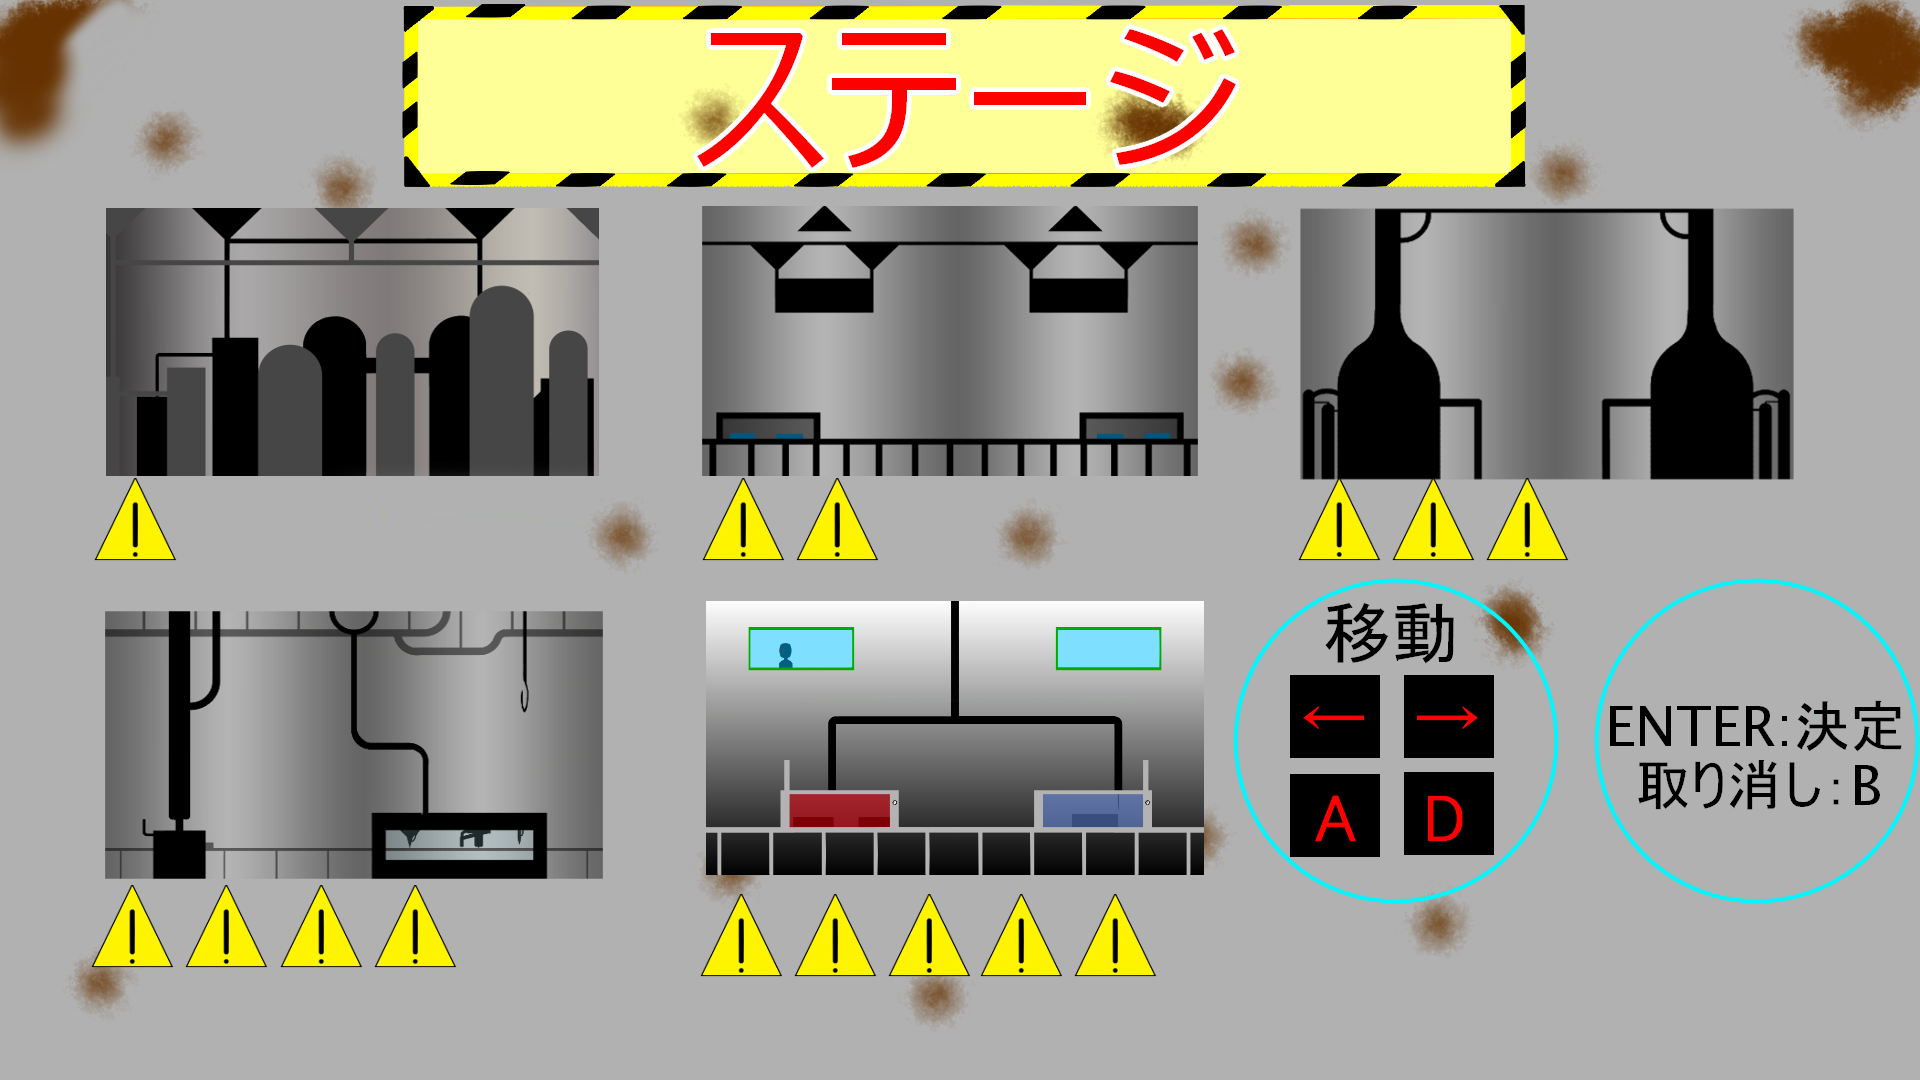
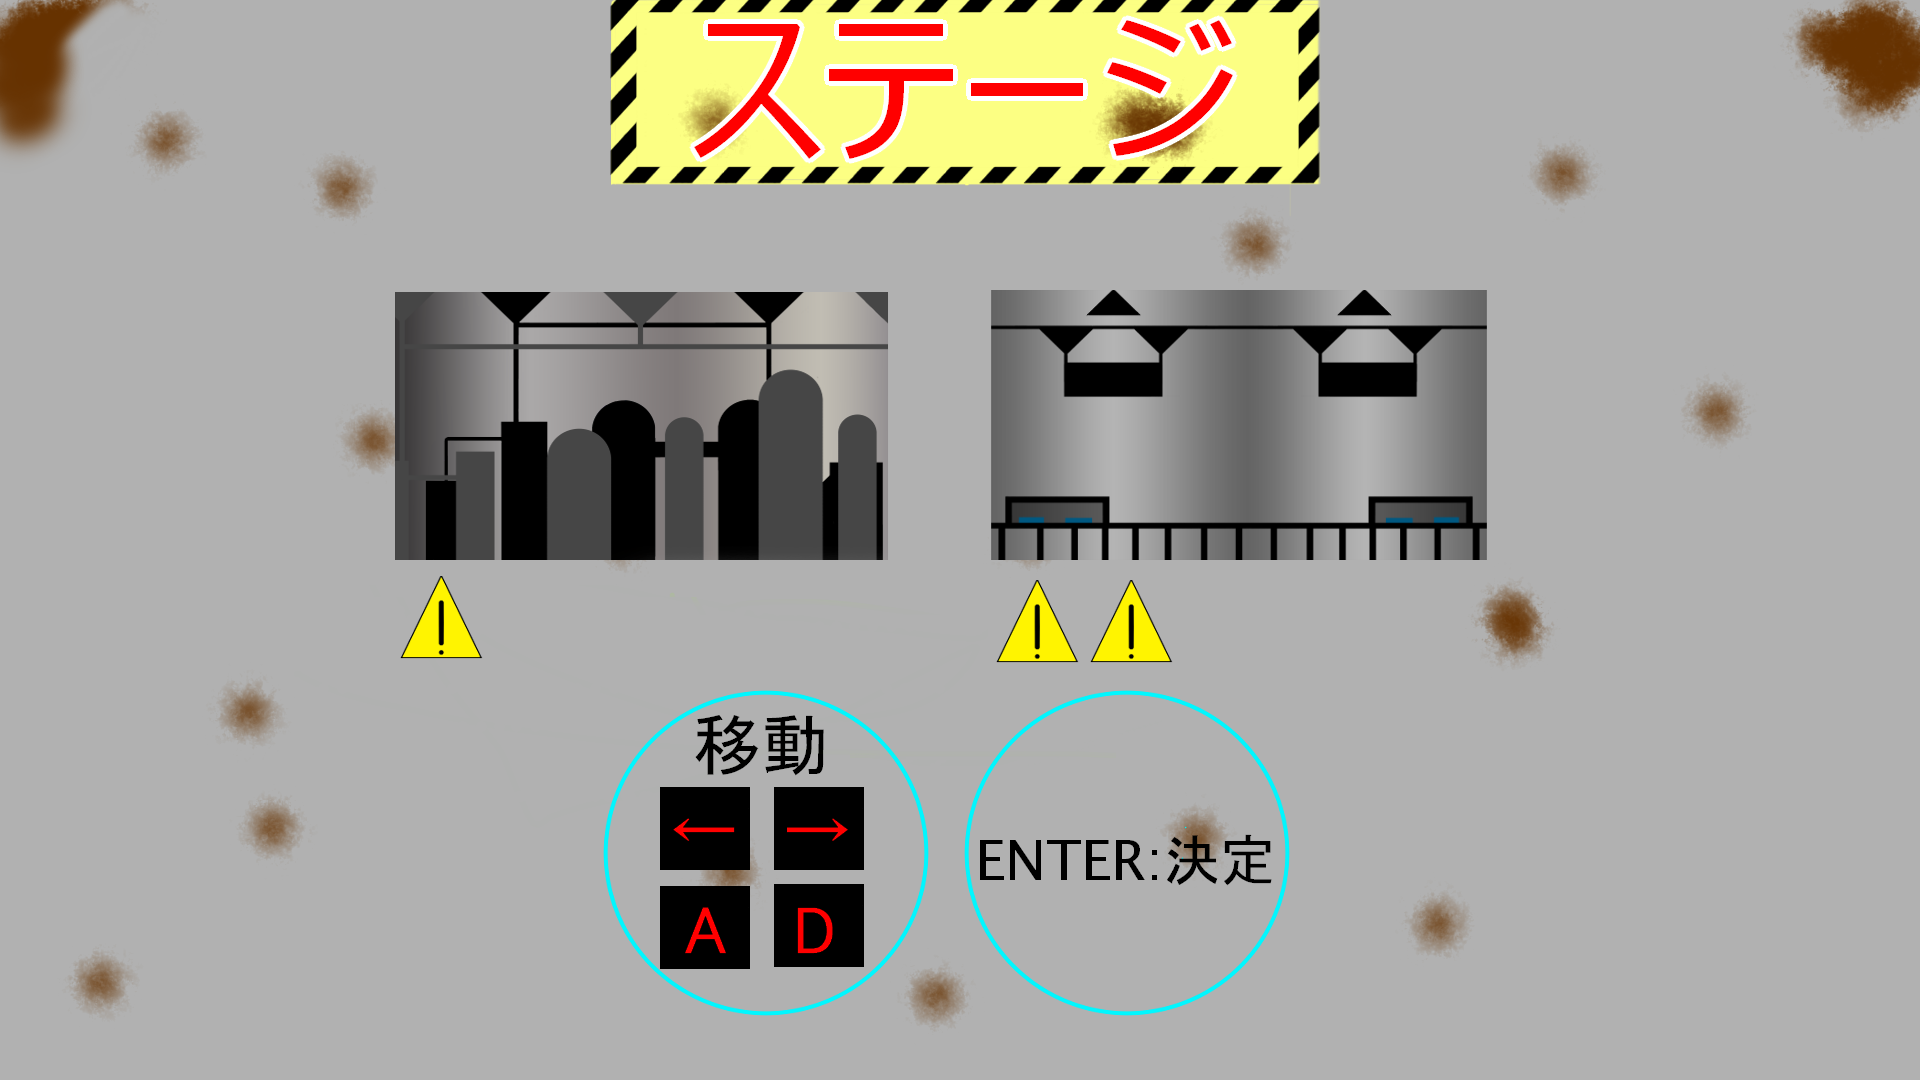
リソース変更(完成)

diff --git a/scene/GameScene.cpp b/scene/GameScene.cpp
@@ -357,8 +357,8 @@ void GameScene::Initialize() {
 	Title_ = Sprite::Create(textureHandle_[1], { 0,0 });
 	Space_ = Sprite::Create(textureHandle_[2], { 550,600 });
 	StageChoice_ = Sprite::Create(textureHandle_[3], { 0,0 });
-	Waku_ = Sprite::Create(textureHandle_[4], { 102,200 });
-	Waku2_ = Sprite::Create(textureHandle_[4], { 700,200 });
+	Waku_ = Sprite::Create(textureHandle_[4], { 393,290 });
+	Waku2_ = Sprite::Create(textureHandle_[4], { 990,290 });
 	Waku3_ = Sprite::Create(textureHandle_[4], { 1300,200 });
 	Waku4_ = Sprite::Create(textureHandle_[4], { 104,604 });
 	Waku5_ = Sprite::Create(textureHandle_[4], { 705,600 });
@@ -373,7 +373,7 @@ void GameScene::Initialize() {
 	PauseSelect2_ = Sprite::Create(textureHandle_[10], { 770,403 });
 	PauseSelect3_ = Sprite::Create(textureHandle_[10], { 610,530 });
 	PauseSelect4_ = Sprite::Create(textureHandle_[10], { 600,655 });
-	PauseSelect5_ = Sprite::Create(textureHandle_[10], { 660,791 });
+	PauseSelect5_ = Sprite::Create(textureHandle_[10], { 640,780 });
 	//PauseSelect6_ = Sprite::Create(textureHandle_[10], { 661,830 });
 	Operation_ = Sprite::Create(textureHandle_[12], { 0,0 });
 	GameOver_ = Sprite::Create(textureHandle_[14], { 0,0 });
@@ -708,8 +708,8 @@ void GameScene::Draw() {
 		}
 		if (PauseFlag == 1)
 		{
-			if (SelectFlag == 1)
-			{
+			/*if (SelectFlag == 1)
+			{*/
 				if (Select == 1)
 				{
 					PauseSelect_->Draw();
@@ -739,7 +739,7 @@ void GameScene::Draw() {
 				{
 					PauseSelect6_->Draw();
 				}*/
-			}
+			//}
 		}
 
 		Pause_->Draw();
@@ -753,8 +753,8 @@ void GameScene::Draw() {
 		}
 		if (PauseFlag == 1)
 		{
-			if (SelectFlag == 1)
-			{
+			/*if (SelectFlag == 1)
+			{*/
 				if (Select == 1)
 				{
 					PauseSelect_->Draw();
@@ -784,7 +784,7 @@ void GameScene::Draw() {
 				{
 					PauseSelect6_->Draw();
 				}*/
-			}
+			//}
 		}
 
 		Pause_->Draw();
